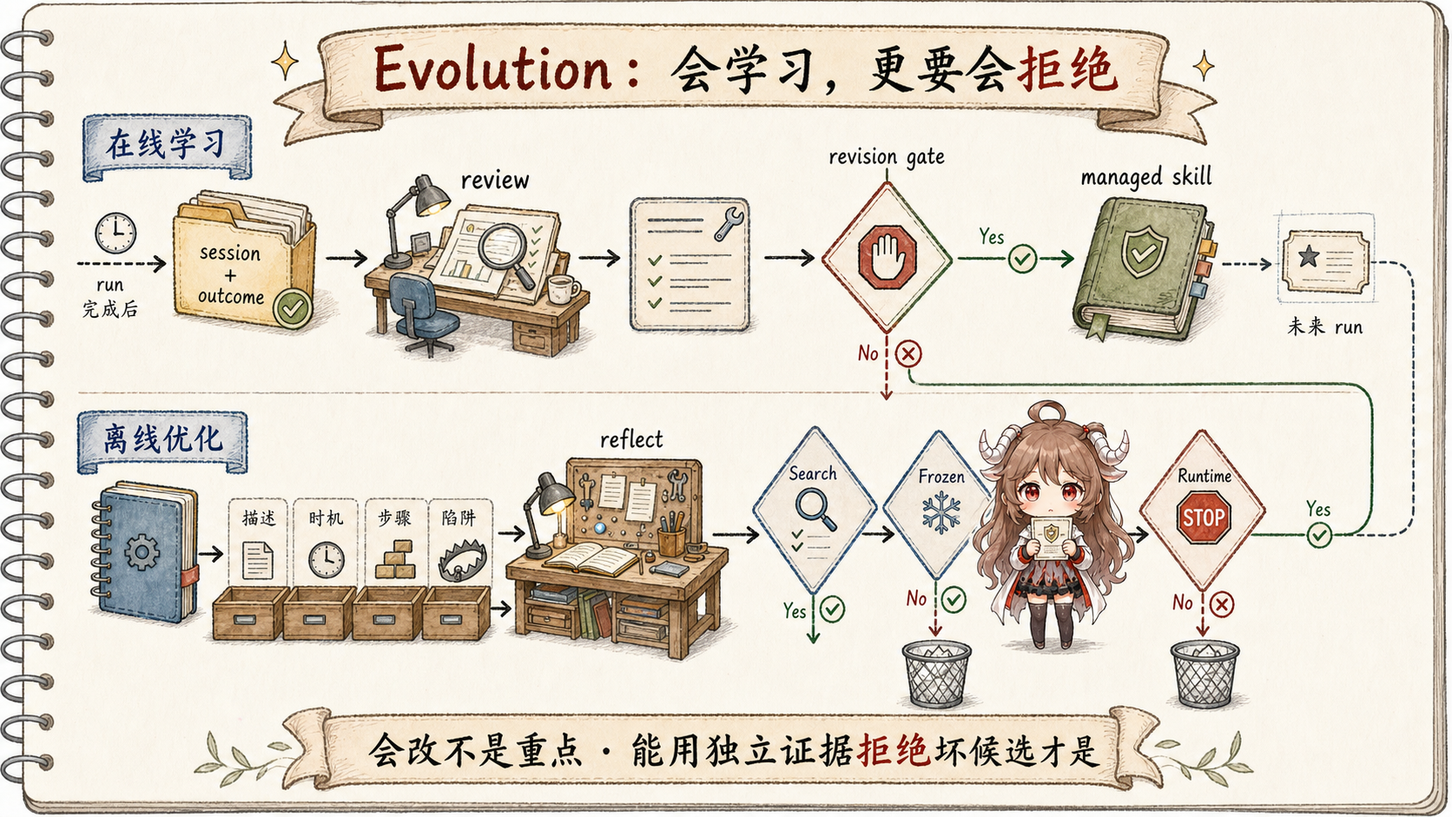
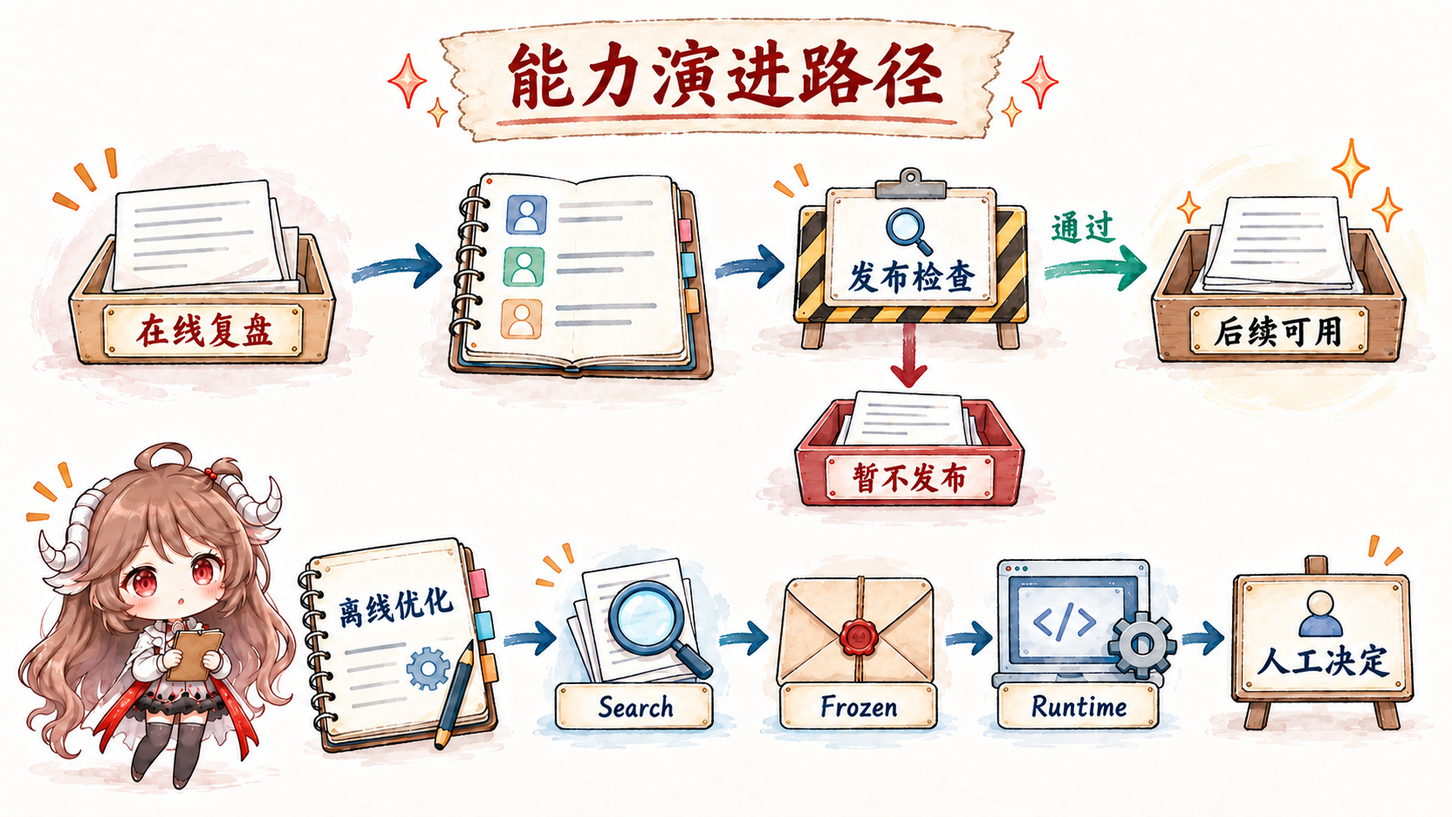
Clarify independent tRPC evolution and evaluation routes

diff --git a/agent-framework/en/trpc-agent-go-evolution/index.html b/agent-framework/en/trpc-agent-go-evolution/index.html
@@ -65,12 +65,12 @@
               Skill candidate, and passes it through configured checks before publication. A GEPA-inspired offline Optimizer asks the stricter question: does that candidate remain better on independent data?
             </p>
             <div class="meta-line"><span>Topic: Skill Evolution</span><span>Online: Session → Review → Revision</span><span>Offline: Reflect → Validate → Holdout</span><span>Dataset: SkillCraft</span><span>Rule: candidates must be rejectable</span></div>
-            <figure class="hero-image"><img src="../assets/trpc-agent-go-evolution-evidence.png" alt="Hand-drawn tRPC-Agent-Go Evolution map: online learning reviews session plus outcome after a run and sends a revision through a gate into a managed skill; offline optimization reflects one component at a time, passes Search, Frozen, and Runtime gates, then rejoins the same revision gate." /></figure>
+            <figure class="hero-image"><img src="../assets/trpc-agent-go-evolution-evidence.png" alt="Online review produces candidates that become available to future runs after release checks; unpublished candidates stop separately. Offline optimization follows Search, Frozen, and Runtime evidence stages before a human adoption decision." /><figcaption>The routes start independently. Release checks summarize review, persistence, and publication. Offline stages produce evaluation evidence, not automatic deployment; any stage may reject a candidate, with rejection branches omitted here.</figcaption></figure>
           </section>
 
           <section class="article-body">
             <div class="note key-point"><p><strong>Separate three kinds of state first.</strong> Summary changes what the Model sees in the current Session. Memory preserves cross-Session facts and episodes. Evolution changes reusable Skills: how future tasks of this kind should be done.</p></div>
-            <div class="note"><p><strong>Source scope.</strong> Online Evolution, the GEPA-inspired Optimizer, and both SkillCraft Benchmarks are merged into public main. Framework links are pinned to <code>99a8667aa8ad3e4816cb3d7f1321ef35118162d7</code>, which merged <a href="https://github.com/trpc-group/trpc-agent-go/pull/2204">PR #2204</a>; Benchmark links are pinned to <code>ea939a734e777a53c59c47960391c92388dfaf1e</code>, which merged <a href="https://github.com/trpc-group/trpc-agent-go-benchmark/pull/18">PR #18</a>. Numbers describe the frozen datasets; they do not mean a Skill passed approval and became active in production.</p></div>
+            <div class="note"><p><strong>Source scope.</strong> Online Evolution, the GEPA-inspired Optimizer, and both SkillCraft Benchmarks are merged into public main. Framework links are verified at <code>e76458566eece2ca33c3da28fadd1691929fb46a</code>; GEPA was originally merged in <a href="https://github.com/trpc-group/trpc-agent-go/pull/2204">PR #2204</a>. Benchmark links are pinned to <code>ea939a734e777a53c59c47960391c92388dfaf1e</code>, which merged <a href="https://github.com/trpc-group/trpc-agent-go-benchmark/pull/18">PR #18</a>. Numbers describe the frozen datasets; they do not mean a Skill passed approval and became active in production.</p></div>
             <div class="note"><p><strong>Questions this article answers.</strong> Follow one multi-recipe Skill Revision: which Run triggers Review, what the Reviewer sees, why a candidate may produce no write, which strings and fields SpecGate and SafetyGate inspect, which record selects the Active version, and where online Evolution and offline GEPA optimize and reject candidates.</p></div>
 
             <h2>1. Translate “self-evolution” into a checkable question</h2>
@@ -85,7 +85,7 @@
             </tbody></table></div>
             <p>
               This division comes from the source, not the article. <code>ReviewDecision</code> explicitly excludes Durable Facts and delegates them to
-              <code>memory.Service</code>; Evolution only changes the Skill Library. See the <a href="https://github.com/trpc-group/trpc-agent-go/blob/99a8667aa8ad3e4816cb3d7f1321ef35118162d7/evolution/types.go#L176-L181"><code>ReviewDecision</code> field documentation</a>.
+              <code>memory.Service</code>; Evolution only changes the Skill Library. See the <a href="https://github.com/trpc-group/trpc-agent-go/blob/e76458566eece2ca33c3da28fadd1691929fb46a/evolution/types.go#L176-L181"><code>ReviewDecision</code> field documentation</a>.
               Rememorio introduced the asynchronous Skill extraction path in the <a href="https://github.com/trpc-group/trpc-agent-go/commit/c6c3bb29ab6050facf98e6b82c3cc16aaddd14df">commit corresponding to #1651</a>.
             </p>
 
@@ -94,7 +94,7 @@
             <p>
               The foreground Agent still optimizes for the user's task. Only after completion does Runner enqueue Session, an optional evaluator Outcome,
               and Skill scope. <code>NewService</code> constructs the reviewer, publisher, worker, and optional gate components, then starts background workers.
-              See <a href="https://github.com/trpc-group/trpc-agent-go/blob/99a8667aa8ad3e4816cb3d7f1321ef35118162d7/evolution/service.go#L23-L78"><code>NewService</code> and <code>EnqueueLearningJob</code></a>.
+              See <a href="https://github.com/trpc-group/trpc-agent-go/blob/e76458566eece2ca33c3da28fadd1691929fb46a/evolution/service.go#L23-L78"><code>NewService</code> and <code>EnqueueLearningJob</code></a>.
             </p>
             <p>
               Runner's default completion hook normally supplies Session with a nil <code>Outcome</code>. A benchmark harness or application evaluator must
@@ -130,8 +130,8 @@ background evolution
             <p>
               The worker scans the delta after the last review point, checks <code>ReviewPolicy</code>, and loads names, descriptions, and bounded body excerpts
               from existing Skills. The reviewer receives messages, tool transcript, current library, and optional Outcome. Outcome tells it whether the task
-              passed, failed, or partially succeeded rather than asking it to infer success from tool calls. The path is <a href="https://github.com/trpc-group/trpc-agent-go/blob/99a8667aa8ad3e4816cb3d7f1321ef35118162d7/evolution/worker.go#L325-L425"><code>processJob</code></a>;
-              the contract is <a href="https://github.com/trpc-group/trpc-agent-go/blob/99a8667aa8ad3e4816cb3d7f1321ef35118162d7/evolution/types.go#L116-L155"><code>Outcome</code> and <code>ReviewInput</code></a>.
+              passed, failed, or partially succeeded rather than asking it to infer success from tool calls. The path is <a href="https://github.com/trpc-group/trpc-agent-go/blob/e76458566eece2ca33c3da28fadd1691929fb46a/evolution/worker.go#L325-L425"><code>processJob</code></a>;
+              the contract is <a href="https://github.com/trpc-group/trpc-agent-go/blob/e76458566eece2ca33c3da28fadd1691929fb46a/evolution/types.go#L116-L155"><code>Outcome</code> and <code>ReviewInput</code></a>.
             </p>
             <p>A library-aware reconciler follows the LLM decision. A proposed count-specific duplicate may become an update or be deduplicated. Reconcile answers what the model meant to change; gates answer whether the candidate may ship.</p>
 
@@ -207,7 +207,7 @@ writeLastReviewAt(sess, latestTs)</code></pre>
               <code>ActivePointer</code> records which governed revision corresponds to the published version. Statuses include active, rejected, pending_eval,
               and pending_approval. An Agent does not read Skill content from that pointer: publisher writes the managed directory, and repository refresh
               makes the body model-visible. See the
-              <a href="https://github.com/trpc-group/trpc-agent-go/blob/99a8667aa8ad3e4816cb3d7f1321ef35118162d7/evolution/revision.go#L26-L130">revision lifecycle</a>.
+              <a href="https://github.com/trpc-group/trpc-agent-go/blob/e76458566eece2ca33c3da28fadd1691929fb46a/evolution/revision.go#L26-L130">revision lifecycle</a>.
             </p>
             <div class="table-wrap"><table><thead><tr><th>Gate</th><th>What it blocks</th><th>What it cannot prove</th></tr></thead><tbody>
               <tr><td>SpecGate</td><td>Missing description, use condition, steps, duplicates, over-specific variants.</td><td>Actual task quality improved.</td></tr>
@@ -217,7 +217,7 @@ writeLastReviewAt(sess, latestTs)</code></pre>
             </tbody></table></div>
             <p>
               Direct publish remains available when no gate plumbing is configured. As soon as any gate component exists, <code>applyDecision</code> routes
-              through the revision pipeline. See <a href="https://github.com/trpc-group/trpc-agent-go/blob/99a8667aa8ad3e4816cb3d7f1321ef35118162d7/evolution/worker.go#L428-L471"><code>applyDecision</code></a>.
+              through the revision pipeline. See <a href="https://github.com/trpc-group/trpc-agent-go/blob/e76458566eece2ca33c3da28fadd1691929fb46a/evolution/worker.go#L428-L471"><code>applyDecision</code></a>.
             </p>
 
             <h3>2.4 How the four Gates make their decisions</h3>
@@ -240,7 +240,7 @@ writeLastReviewAt(sess, latestTs)</code></pre>
               and a name no longer than 120 characters. For create, names are lowercased and non-alphanumeric runs collapse to <code>-</code>; a canonical match
               with an existing name must be update. A count pattern catches names such as “3 cities” or “5 dishes” when a multi-city or multi-dish parent exists.
               Delete bypasses body checks because it has no new spec. The example receives missing-use-condition, too-few-steps, and count-specific-sibling reasons.
-              See <a href="https://github.com/trpc-group/trpc-agent-go/blob/99a8667aa8ad3e4816cb3d7f1321ef35118162d7/evolution/gates.go#L194-L270"><code>defaultSpecGate.Validate</code></a> for the field and canonical-name rules.
+              See <a href="https://github.com/trpc-group/trpc-agent-go/blob/e76458566eece2ca33c3da28fadd1691929fb46a/evolution/gates.go#L194-L270"><code>defaultSpecGate.Validate</code></a> for the field and canonical-name rules.
             </p>
             <pre><code class="language-go">// evolution/gates.go (excerpt)
 if c.Action == RevisionActionDelete {
@@ -286,7 +286,7 @@ return &amp;SpecReport{Passed: len(reasons) == 0, Reasons: reasons}, nil</code><
               such as <code>../../</code>, <code>/etc/passwd</code>, and <code>.ssh/id_*</code>. The candidate is flagged for dangerous shell content.
               The list stays short because a false positive rejects a revision. This gate does not prove semantic safety and does not replace CodeExecutor
               sandboxing or tool permissions.
-              The scan entry and rule composition are in <a href="https://github.com/trpc-group/trpc-agent-go/blob/99a8667aa8ad3e4816cb3d7f1321ef35118162d7/evolution/gates.go#L272-L302"><code>defaultSafetyGate.Scan</code></a>.
+              The scan entry and rule composition are in <a href="https://github.com/trpc-group/trpc-agent-go/blob/e76458566eece2ca33c3da28fadd1691929fb46a/evolution/gates.go#L272-L302"><code>defaultSafetyGate.Scan</code></a>.
             </p>
             <pre><code class="language-go">// evolution/gates.go (excerpt)
 body := strings.Join(append([]string{
@@ -315,7 +315,7 @@ return &amp;SafetyReport{Passed: len(reasons) == 0, Reasons: reasons}, nil</code
               threshold places the revision in <code>pending_eval</code>; partial may pass, delete always passes, and missing Outcome passes by default.
               It asks whether automatic learning from a catastrophic run is credible. It does not answer whether the Skill improves independent tasks.
               Replay, shadow traffic, and mini-benchmarks require another implementation of the interface; GEPA's frozen evidence must not be attributed to this default gate.
-              See <a href="https://github.com/trpc-group/trpc-agent-go/blob/99a8667aa8ad3e4816cb3d7f1321ef35118162d7/evolution/gates.go#L107-L174"><code>outcomeBasedEffectivenessGate</code></a>.
+              See <a href="https://github.com/trpc-group/trpc-agent-go/blob/e76458566eece2ca33c3da28fadd1691929fb46a/evolution/gates.go#L107-L174"><code>outcomeBasedEffectivenessGate</code></a>.
             </p>
 
             <h4>HumanGate decides whether to hold; the worker never waits for a person</h4>
@@ -327,9 +327,9 @@ return &amp;SafetyReport{Passed: len(reasons) == 0, Reasons: reasons}, nil</code
               By default <code>ApprovalTimeout=0</code>, so the revision waits for an explicit decision. Only when a deployment configures a positive timeout
               may the sweeper auto-promote an expired <code>pending_approval</code> revision. The status means “undecided,” not “a human must eventually click approve.”
               The default and auto-promotion semantics are defined in
-              <a href="https://github.com/trpc-group/trpc-agent-go/blob/99a8667aa8ad3e4816cb3d7f1321ef35118162d7/evolution/worker.go#L176-L183"><code>workerConfig</code></a>.
-              Persistence and the final decision are implemented by <a href="https://github.com/trpc-group/trpc-agent-go/blob/99a8667aa8ad3e4816cb3d7f1321ef35118162d7/evolution/worker.go#L903-L922"><code>runHumanGate</code></a>
-              and <a href="https://github.com/trpc-group/trpc-agent-go/blob/99a8667aa8ad3e4816cb3d7f1321ef35118162d7/evolution/approval_service.go#L153-L212"><code>ApprovalService.Decide</code></a>.
+              <a href="https://github.com/trpc-group/trpc-agent-go/blob/e76458566eece2ca33c3da28fadd1691929fb46a/evolution/worker.go#L176-L183"><code>workerConfig</code></a>.
+              Persistence and the final decision are implemented by <a href="https://github.com/trpc-group/trpc-agent-go/blob/e76458566eece2ca33c3da28fadd1691929fb46a/evolution/worker.go#L903-L922"><code>runHumanGate</code></a>
+              and <a href="https://github.com/trpc-group/trpc-agent-go/blob/e76458566eece2ca33c3da28fadd1691929fb46a/evolution/approval_service.go#L153-L212"><code>ApprovalService.Decide</code></a>.
             </p>
 
             <h3>2.5 Gate order, persistence, and Agent visibility</h3>
@@ -399,8 +399,8 @@ application refreshes repository -> future Agent can load the new Skill</code></
               Shadow is easy to misread as “observe without activation.” Here it means the opposite. <code>WithApprovalGateShadow(true)</code> lets teams observe
               what gates would reject while preserving the old direct-publish behavior, so a failed candidate may still enter the managed library. Failed status
               and the <code>shadow_mode_bypassed</code> metric answer “what would enforcement have changed?” Once production relies on gates, shadow should be off;
-              otherwise reports are warnings, not isolation. See <a href="https://github.com/trpc-group/trpc-agent-go/blob/99a8667aa8ad3e4816cb3d7f1321ef35118162d7/evolution/worker.go#L750-L789"><code>processRevision</code></a>
-              and <a href="https://github.com/trpc-group/trpc-agent-go/blob/99a8667aa8ad3e4816cb3d7f1321ef35118162d7/evolution/worker.go#L935-L1010"><code>publishRevision</code></a>.
+              otherwise reports are warnings, not isolation. See <a href="https://github.com/trpc-group/trpc-agent-go/blob/e76458566eece2ca33c3da28fadd1691929fb46a/evolution/worker.go#L750-L789"><code>processRevision</code></a>
+              and <a href="https://github.com/trpc-group/trpc-agent-go/blob/e76458566eece2ca33c3da28fadd1691929fb46a/evolution/worker.go#L935-L1010"><code>publishRevision</code></a>.
             </p>
             <pre><code class="language-go">// evolution/worker.go (excerpt)
 gatePassed := w.runGates(ctx, rev, existing, outcome)
@@ -552,7 +552,7 @@ func (o *gepaOptimizer) Optimize(
               Only <code>Submit=true</code> plus an injected <code>RevisionSubmitter</code> sends a promotion-eligible candidate into the same revision governance.
               The merged implementation stores externally evaluated submissions as <code>pending_approval</code>. They wait for a person by default and may
               auto-promote only under an explicit timeout policy. Either way, this preserves the boundary between “the experiment improved” and
-              “the runtime may activate it.” See the <a href="https://github.com/trpc-group/trpc-agent-go/blob/99a8667aa8ad3e4816cb3d7f1321ef35118162d7/evolution/optimization/optimization.go">optimizer contracts</a>.
+              “the runtime may activate it.” See the <a href="https://github.com/trpc-group/trpc-agent-go/blob/e76458566eece2ca33c3da28fadd1691929fb46a/evolution/optimization/optimization.go">optimizer contracts</a>.
             </p>
             <p>
               The public shape contains no Session, Event channel, or background queue: only an explicit seed, frozen Dataset, scope, parent revision, and submit
@@ -655,9 +655,9 @@ return w.holdSubmittedRevision(ctx, rev, store) // pending_approval</code></pre>
               <code>Submit=true</code> creates no revision. After holdout passes, the submitter still validates target identity, parent revision, and automatic
               gates, then persists only a <code>pending_approval</code> revision. By default a separate <code>ApprovalService.Decide</code> advances it;
               with an explicit approval timeout, the sweeper may instead reach publisher.
-              See the <a href="https://github.com/trpc-group/trpc-agent-go/blob/99a8667aa8ad3e4816cb3d7f1321ef35118162d7/evolution/optimization/engine.go#L127-L139"><code>Optimize</code> submission branch</a>,
-              <a href="https://github.com/trpc-group/trpc-agent-go/blob/99a8667aa8ad3e4816cb3d7f1321ef35118162d7/evolution/optimization/engine.go#L341-L419">promotion and submission</a>,
-              and <a href="https://github.com/trpc-group/trpc-agent-go/blob/99a8667aa8ad3e4816cb3d7f1321ef35118162d7/evolution/submission.go#L68-L95"><code>submitRevision</code></a>.
+              See the <a href="https://github.com/trpc-group/trpc-agent-go/blob/e76458566eece2ca33c3da28fadd1691929fb46a/evolution/optimization/engine.go#L127-L139"><code>Optimize</code> submission branch</a>,
+              <a href="https://github.com/trpc-group/trpc-agent-go/blob/e76458566eece2ca33c3da28fadd1691929fb46a/evolution/optimization/engine.go#L341-L419">promotion and submission</a>,
+              and <a href="https://github.com/trpc-group/trpc-agent-go/blob/e76458566eece2ca33c3da28fadd1691929fb46a/evolution/submission.go#L68-L95"><code>submitRevision</code></a>.
             </p>
 
             <h2>6. The GEPA Benchmark uses Search, Frozen confirmation, and Runtime replay</h2>
@@ -728,11 +728,11 @@ return w.holdSubmittedRevision(ctx, rev, store) // pending_approval</code></pre>
 
             <h2 id="sources">Sources, paper, and experiments</h2>
             <ul>
-              <li><a href="https://github.com/trpc-group/trpc-agent-go/tree/99a8667aa8ad3e4816cb3d7f1321ef35118162d7">tRPC-Agent-Go public source snapshot</a></li>
-              <li><a href="https://github.com/trpc-group/trpc-agent-go/blob/99a8667aa8ad3e4816cb3d7f1321ef35118162d7/evolution/service.go">Evolution service</a></li>
-              <li><a href="https://github.com/trpc-group/trpc-agent-go/blob/99a8667aa8ad3e4816cb3d7f1321ef35118162d7/evolution/worker.go">Asynchronous review worker</a></li>
-              <li><a href="https://github.com/trpc-group/trpc-agent-go/blob/99a8667aa8ad3e4816cb3d7f1321ef35118162d7/evolution/revision.go">Revision store and lifecycle</a></li>
-              <li><a href="https://github.com/trpc-group/trpc-agent-go/blob/99a8667aa8ad3e4816cb3d7f1321ef35118162d7/evolution/gates.go">Spec, Safety, Effectiveness, and Human gates</a></li>
+              <li><a href="https://github.com/trpc-group/trpc-agent-go/tree/e76458566eece2ca33c3da28fadd1691929fb46a">tRPC-Agent-Go public source snapshot</a></li>
+              <li><a href="https://github.com/trpc-group/trpc-agent-go/blob/e76458566eece2ca33c3da28fadd1691929fb46a/evolution/service.go">Evolution service</a></li>
+              <li><a href="https://github.com/trpc-group/trpc-agent-go/blob/e76458566eece2ca33c3da28fadd1691929fb46a/evolution/worker.go">Asynchronous review worker</a></li>
+              <li><a href="https://github.com/trpc-group/trpc-agent-go/blob/e76458566eece2ca33c3da28fadd1691929fb46a/evolution/revision.go">Revision store and lifecycle</a></li>
+              <li><a href="https://github.com/trpc-group/trpc-agent-go/blob/e76458566eece2ca33c3da28fadd1691929fb46a/evolution/gates.go">Spec, Safety, Effectiveness, and Human gates</a></li>
               <li><a href="https://github.com/trpc-group/trpc-agent-go-benchmark/blob/ea939a734e777a53c59c47960391c92388dfaf1e/skillcraft/results/REPORT.md">Merged SkillCraft online Evolution report</a></li>
               <li><a href="https://github.com/trpc-group/trpc-agent-go-benchmark/blob/ea939a734e777a53c59c47960391c92388dfaf1e/skillcraft/results/gepa_reflective_optimization/REPORT.md">Merged GEPA reflective optimization report</a></li>
               <li><a href="https://arxiv.org/abs/2507.19457v2">GEPA paper (arXiv:2507.19457v2)</a></li>

diff --git a/agent-framework/zh/trpc-agent-go-evolution/index.html b/agent-framework/zh/trpc-agent-go-evolution/index.html
@@ -65,12 +65,12 @@
               生成带版本的 Skill 候选，再经过规则、评估或人工检查后发布；GEPA 式离线优化则进一步追问：这个候选在独立数据上真的更好吗？
             </p>
             <div class="meta-line"><span>主题：Skill Evolution</span><span>在线：Session → Review → Revision</span><span>离线：Reflect → Validate → Holdout</span><span>数据集：SkillCraft</span><span>结论：候选必须允许被拒绝</span></div>
-            <figure class="hero-image"><img src="../assets/trpc-agent-go-evolution-evidence.png" alt="tRPC-Agent-Go Evolution 手绘图：在线学习在 Run 完成后检查 Session 和 Outcome，候选经过 Revision Gate 后才成为 Managed Skill；离线优化逐项反思候选，再经过 Search、Frozen、Runtime 三轮验证，存活候选仍回到同一套发布检查。" /></figure>
+            <figure class="hero-image"><img src="../assets/trpc-agent-go-evolution-evidence.png" alt="在线复盘生成候选，通过发布检查后供后续运行使用，未通过则暂不发布；离线优化独立经过 Search、Frozen 与 Runtime 证据阶段，最后由人决定是否采用。" /><figcaption>两条路线分别启动。上方将审核、持久化和发布概括为发布检查；下方三个阶段只产生评估证据，不自动发布。任一离线阶段都可以淘汰候选，图中省略各阶段的拒绝分支。</figcaption></figure>
           </section>
 
           <section class="article-body">
             <div class="note key-point"><p><strong>先分清三类状态。</strong>Summary 改当前会话给模型看的内容，Memory 保存跨会话事实与事件，Evolution 只维护可复用 Skill。它学习的是“以后遇到这类任务怎样做”，不是“这个用户是谁”。</p></div>
-            <div class="note"><p><strong>本文依据。</strong>在线 Evolution、GEPA 式 Optimizer 与两组 SkillCraft Benchmark 都已进入公开 main。框架源码固定到合入 <a href="https://github.com/trpc-group/trpc-agent-go/pull/2204">PR #2204</a> 的 <code>99a8667aa8ad3e4816cb3d7f1321ef35118162d7</code>；Benchmark 固定到合入 <a href="https://github.com/trpc-group/trpc-agent-go-benchmark/pull/18">PR #18</a> 的 <code>ea939a734e777a53c59c47960391c92388dfaf1e</code>。实验数字只说明冻结数据集上的表现，不代表某个 Skill 已经通过审批并在生产环境生效。</p></div>
+            <div class="note"><p><strong>本文依据。</strong>在线 Evolution、GEPA 式 Optimizer 与两组 SkillCraft Benchmark 都已进入公开 main。框架实现核实到公开快照；GEPA 最初由 <a href="https://github.com/trpc-group/trpc-agent-go/pull/2204">PR #2204</a> 合入，当前引用固定到 <code>e76458566eece2ca33c3da28fadd1691929fb46a</code>；Benchmark 固定到合入 <a href="https://github.com/trpc-group/trpc-agent-go-benchmark/pull/18">PR #18</a> 的 <code>ea939a734e777a53c59c47960391c92388dfaf1e</code>。实验数字只说明冻结数据集上的表现，不代表某个 Skill 已经通过审批并在生产环境生效。</p></div>
             <div class="note"><p><strong>读完后你应该能回答。</strong>请跟着一份“多菜谱采集” Skill Revision 前进：哪一次 Run 触发 Review，Reviewer 看见什么，候选为什么可能什么也不写，SpecGate 与 SafetyGate 检查哪些字符串和结构，哪个文件决定 Active 版本，以及在线 Evolution 与离线 GEPA 分别在哪里优化、根据什么结果拒绝候选。</p></div>
 
             <h2>一、先把“自进化”翻译成一个可检查的问题</h2>
@@ -85,7 +85,7 @@
             </tbody></table></div>
             <p>
               这不是文章自行划分的概念。<code>ReviewDecision</code> 的注释明确排除 Durable Facts，并把它们交给 <code>memory.Service</code>；
-              Evolution 只修改 Skill Library。见 <a href="https://github.com/trpc-group/trpc-agent-go/blob/99a8667aa8ad3e4816cb3d7f1321ef35118162d7/evolution/types.go#L176-L181"><code>ReviewDecision</code> 的字段说明</a>。
+              Evolution 只修改 Skill Library。见 <a href="https://github.com/trpc-group/trpc-agent-go/blob/e76458566eece2ca33c3da28fadd1691929fb46a/evolution/types.go#L176-L181"><code>ReviewDecision</code> 的字段说明</a>。
               Rememorio 在 <a href="https://github.com/trpc-group/trpc-agent-go/commit/c6c3bb29ab6050facf98e6b82c3cc16aaddd14df">#1651 对应提交</a>引入了这条异步 Skill 抽取主线。
             </p>
 
@@ -94,7 +94,7 @@
             <p>
               前台 Agent 仍以完成用户任务为目标。run 收尾后，Runner 才把 Session、可选 evaluator outcome 与 skill scope 放入 learning job。
               <code>NewService</code> 创建 reviewer、publisher、worker 与可选 gate 组件并启动后台 worker；见
-              <a href="https://github.com/trpc-group/trpc-agent-go/blob/99a8667aa8ad3e4816cb3d7f1321ef35118162d7/evolution/service.go#L23-L78"><code>NewService</code> 与 <code>EnqueueLearningJob</code></a>。
+              <a href="https://github.com/trpc-group/trpc-agent-go/blob/e76458566eece2ca33c3da28fadd1691929fb46a/evolution/service.go#L23-L78"><code>NewService</code> 与 <code>EnqueueLearningJob</code></a>。
             </p>
             <p>
               默认 Runner 完成钩子通常只交 Session，<code>Outcome</code> 为 nil；benchmark harness 或业务 evaluator 才会显式附上 status、score 与 notes。
@@ -133,8 +133,8 @@ background evolution
             <p>
               worker 从上次 review 点开始扫描 delta，先过 <code>ReviewPolicy</code>，再加载已有 skill 的名称、描述和受限正文片段。
               Reviewer 收到消息、工具 transcript、现有 Skill 与可选 Outcome；Outcome 能告诉它任务究竟成功、失败还是只得了部分分数，
-              避免从工具调用表面猜结果。主线在 <a href="https://github.com/trpc-group/trpc-agent-go/blob/99a8667aa8ad3e4816cb3d7f1321ef35118162d7/evolution/worker.go#L325-L425"><code>processJob</code></a>，
-              Outcome 契约见 <a href="https://github.com/trpc-group/trpc-agent-go/blob/99a8667aa8ad3e4816cb3d7f1321ef35118162d7/evolution/types.go#L116-L155"><code>Outcome</code> 与 <code>ReviewInput</code></a>。
+              避免从工具调用表面猜结果。主线在 <a href="https://github.com/trpc-group/trpc-agent-go/blob/e76458566eece2ca33c3da28fadd1691929fb46a/evolution/worker.go#L325-L425"><code>processJob</code></a>，
+              Outcome 契约见 <a href="https://github.com/trpc-group/trpc-agent-go/blob/e76458566eece2ca33c3da28fadd1691929fb46a/evolution/types.go#L116-L155"><code>Outcome</code> 与 <code>ReviewInput</code></a>。
             </p>
             <p>
               LLM decision 之后还有 library-aware reconciler：例如 reviewer 又创建一个只是名字更具体的同类 Skill，reconciler 会尝试改成 update 或去重。
@@ -211,7 +211,7 @@ writeLastReviewAt(sess, latestTs)</code></pre>
               配置了 approval pipeline 时，create、update、delete 都先变成 immutable revision。<code>CandidateStore</code> 保存候选和 audit log，
               <code>ActivePointer</code> 记录治理上哪条 revision 对应当前发布版本；状态可以是 active、rejected、pending_eval 或 pending_approval。
               Agent 并不从 pointer 读取 Skill 正文：publisher 写入 managed directory，repository refresh 后正文才进入模型视图。
-              见 <a href="https://github.com/trpc-group/trpc-agent-go/blob/99a8667aa8ad3e4816cb3d7f1321ef35118162d7/evolution/revision.go#L26-L130">revision lifecycle</a>。
+              见 <a href="https://github.com/trpc-group/trpc-agent-go/blob/e76458566eece2ca33c3da28fadd1691929fb46a/evolution/revision.go#L26-L130">revision lifecycle</a>。
             </p>
             <div class="table-wrap"><table><thead><tr><th>Gate</th><th>它阻止什么</th><th>不能证明什么</th></tr></thead><tbody>
               <tr><td>SpecGate</td><td>缺描述、缺使用时机、步骤过少、重复或过度具体的 Skill。</td><td>不能证明任务质量真的提高。</td></tr>
@@ -221,7 +221,7 @@ writeLastReviewAt(sess, latestTs)</code></pre>
             </tbody></table></div>
             <p>
               没有配置 gate 时，旧的 direct-publish 行为仍可保留；只要任一 gate 组件存在，<code>applyDecision</code> 就改走 revision pipeline。
-              分支见 <a href="https://github.com/trpc-group/trpc-agent-go/blob/99a8667aa8ad3e4816cb3d7f1321ef35118162d7/evolution/worker.go#L428-L471"><code>applyDecision</code></a>。
+              分支见 <a href="https://github.com/trpc-group/trpc-agent-go/blob/e76458566eece2ca33c3da28fadd1691929fb46a/evolution/worker.go#L428-L471"><code>applyDecision</code></a>。
             </p>
 
             <h3>2.4 四道 Gate 分别怎样作出决定</h3>
@@ -243,7 +243,7 @@ writeLastReviewAt(sess, latestTs)</code></pre>
               名称最多 120 字符。创建时，它把名称转小写并把连续非字母数字压成 <code>-</code>，若与现有名称相同就要求改为 update；
               计数正则还会识别 “3 cities / 5 dishes” 之类的名字，并在已有 multi-city / multi-dish 父 Skill 时拒绝。
               delete 不需要再验证正文，因为它本来就没有新 spec。上面的候选会同时得到“缺 when_to_use、步骤不足、计数特化”三条理由。
-              具体字段与名称规范化逻辑见 <a href="https://github.com/trpc-group/trpc-agent-go/blob/99a8667aa8ad3e4816cb3d7f1321ef35118162d7/evolution/gates.go#L194-L270"><code>defaultSpecGate.Validate</code></a>。
+              具体字段与名称规范化逻辑见 <a href="https://github.com/trpc-group/trpc-agent-go/blob/e76458566eece2ca33c3da28fadd1691929fb46a/evolution/gates.go#L194-L270"><code>defaultSpecGate.Validate</code></a>。
             </p>
             <pre><code class="language-go">// evolution/gates.go（节选）
 if c.Action == RevisionActionDelete {
@@ -289,7 +289,7 @@ return &amp;SpecReport{Passed: len(reasons) == 0, Reasons: reasons}, nil</code><
               以及 <code>../../</code>、<code>/etc/passwd</code>、<code>.ssh/id_*</code> 等路径穿越或敏感路径。
               上面的候选因此被明确标成 dangerous shell。规则短不是能力不足的疏忽，而是 false positive 会直接拒绝 revision；
               这层只挡高置信字符串，不能证明工具执行语义完全安全，也不能替代 CodeExecutor 沙箱与权限控制。
-              扫描入口与规则组合见 <a href="https://github.com/trpc-group/trpc-agent-go/blob/99a8667aa8ad3e4816cb3d7f1321ef35118162d7/evolution/gates.go#L272-L302"><code>defaultSafetyGate.Scan</code></a>。
+              扫描入口与规则组合见 <a href="https://github.com/trpc-group/trpc-agent-go/blob/e76458566eece2ca33c3da28fadd1691929fb46a/evolution/gates.go#L272-L302"><code>defaultSafetyGate.Scan</code></a>。
             </p>
             <pre><code class="language-go">// evolution/gates.go（节选）
 body := strings.Join(append([]string{
@@ -318,7 +318,7 @@ return &amp;SafetyReport{Passed: len(reasons) == 0, Reasons: reasons}, nil</code
               revision 进入 <code>pending_eval</code>；partial 允许通过，delete 总是通过，没有 Outcome 时也默认通过。
               它回答“是否应从一次灾难性 run 自动学习”，不回答“这个 Skill 在独立任务上是否更好”。真正的 replay、shadow traffic
               或 mini-benchmark 需要实现同一个接口，GEPA 的 frozen/runtime 证据也不能冒充这道默认 gate 已经做过的事。
-              默认判定见 <a href="https://github.com/trpc-group/trpc-agent-go/blob/99a8667aa8ad3e4816cb3d7f1321ef35118162d7/evolution/gates.go#L107-L174"><code>outcomeBasedEffectivenessGate</code></a>。
+              默认判定见 <a href="https://github.com/trpc-group/trpc-agent-go/blob/e76458566eece2ca33c3da28fadd1691929fb46a/evolution/gates.go#L107-L174"><code>outcomeBasedEffectivenessGate</code></a>。
             </p>
 
             <h4>HumanGate：只决定是否暂缓，不在 worker 里等待人</h4>
@@ -330,9 +330,9 @@ return &amp;SafetyReport{Passed: len(reasons) == 0, Reasons: reasons}, nil</code
               revision 会一直等待显式决定；只有部署主动配置正数 timeout，sweeper 才会把超时的 <code>pending_approval</code>
               自动 promote。状态名表示“尚未决定”，不证明一定会有人点击批准。
               timeout 默认值与自动晋升语义见
-              <a href="https://github.com/trpc-group/trpc-agent-go/blob/99a8667aa8ad3e4816cb3d7f1321ef35118162d7/evolution/worker.go#L176-L183"><code>workerConfig</code></a>；
-              状态落盘与最终决定分别见 <a href="https://github.com/trpc-group/trpc-agent-go/blob/99a8667aa8ad3e4816cb3d7f1321ef35118162d7/evolution/worker.go#L903-L922"><code>runHumanGate</code></a>
-              和 <a href="https://github.com/trpc-group/trpc-agent-go/blob/99a8667aa8ad3e4816cb3d7f1321ef35118162d7/evolution/approval_service.go#L153-L212"><code>ApprovalService.Decide</code></a>。
+              <a href="https://github.com/trpc-group/trpc-agent-go/blob/e76458566eece2ca33c3da28fadd1691929fb46a/evolution/worker.go#L176-L183"><code>workerConfig</code></a>；
+              状态落盘与最终决定分别见 <a href="https://github.com/trpc-group/trpc-agent-go/blob/e76458566eece2ca33c3da28fadd1691929fb46a/evolution/worker.go#L903-L922"><code>runHumanGate</code></a>
+              和 <a href="https://github.com/trpc-group/trpc-agent-go/blob/e76458566eece2ca33c3da28fadd1691929fb46a/evolution/approval_service.go#L153-L212"><code>ApprovalService.Decide</code></a>。
             </p>
 
             <h3>2.5 Gate 顺序、持久化与 Agent 可见性</h3>
@@ -403,8 +403,8 @@ application refreshes repository -> future Agent can load the new Skill</code></
               会拦住什么，同时保持旧 direct-publish 行为，所以失败候选仍可能真实写入 managed library。它留下失败状态与
               <code>shadow_mode_bypassed</code> 指标，方便比较“如果强制 gate 会发生什么”；生产开始依赖 gate 后应关闭 shadow，
               否则 report 只是告警，不是隔离。实现顺序见
-              <a href="https://github.com/trpc-group/trpc-agent-go/blob/99a8667aa8ad3e4816cb3d7f1321ef35118162d7/evolution/worker.go#L750-L789"><code>processRevision</code></a>
-              与 <a href="https://github.com/trpc-group/trpc-agent-go/blob/99a8667aa8ad3e4816cb3d7f1321ef35118162d7/evolution/worker.go#L935-L1010"><code>publishRevision</code></a>。
+              <a href="https://github.com/trpc-group/trpc-agent-go/blob/e76458566eece2ca33c3da28fadd1691929fb46a/evolution/worker.go#L750-L789"><code>processRevision</code></a>
+              与 <a href="https://github.com/trpc-group/trpc-agent-go/blob/e76458566eece2ca33c3da28fadd1691929fb46a/evolution/worker.go#L935-L1010"><code>publishRevision</code></a>。
             </p>
             <pre><code class="language-go">// evolution/worker.go（节选）
 gatePassed := w.runGates(ctx, rev, existing, outcome)
@@ -560,7 +560,7 @@ func (o *gepaOptimizer) Optimize(
               promotion-eligible 候选才进入同一 revision governance。当前实现会把这种外部评估候选写成
               <code>pending_approval</code>，默认等待人工，显式配置 timeout 时则可自动 promote；无论采用哪种策略，
               都把“实验认为更好”和“运行环境允许生效”继续分开。接口与控制流见
-              <a href="https://github.com/trpc-group/trpc-agent-go/blob/99a8667aa8ad3e4816cb3d7f1321ef35118162d7/evolution/optimization/optimization.go">optimizer contracts</a>。
+              <a href="https://github.com/trpc-group/trpc-agent-go/blob/e76458566eece2ca33c3da28fadd1691929fb46a/evolution/optimization/optimization.go">optimizer contracts</a>。
             </p>
             <p>
               这个公开接口里没有 Session、Event channel 或后台 queue，只有调用方明确传入的 seed、冻结 Dataset 与提交开关；
@@ -665,9 +665,9 @@ return w.holdSubmittedRevision(ctx, rev, store) // pending_approval</code></pre>
               <code>Submit=true</code> 也不会创建 revision；满足 holdout 条件后，submitter 仍重新校验 target、parent revision 和自动 gate，
               最终只写一条 <code>pending_approval</code> revision。默认要由另一次 <code>ApprovalService.Decide</code> 推进；
               显式配置 approval timeout 时，也可能由 sweeper 自动进入 publisher。
-              对应源码在 <a href="https://github.com/trpc-group/trpc-agent-go/blob/99a8667aa8ad3e4816cb3d7f1321ef35118162d7/evolution/optimization/engine.go#L127-L139"><code>Optimize</code> submission branch</a>、
-              <a href="https://github.com/trpc-group/trpc-agent-go/blob/99a8667aa8ad3e4816cb3d7f1321ef35118162d7/evolution/optimization/engine.go#L341-L419">promotion 与 submit</a>
-              和 <a href="https://github.com/trpc-group/trpc-agent-go/blob/99a8667aa8ad3e4816cb3d7f1321ef35118162d7/evolution/submission.go#L68-L95"><code>submitRevision</code></a>。
+              对应源码在 <a href="https://github.com/trpc-group/trpc-agent-go/blob/e76458566eece2ca33c3da28fadd1691929fb46a/evolution/optimization/engine.go#L127-L139"><code>Optimize</code> submission branch</a>、
+              <a href="https://github.com/trpc-group/trpc-agent-go/blob/e76458566eece2ca33c3da28fadd1691929fb46a/evolution/optimization/engine.go#L341-L419">promotion 与 submit</a>
+              和 <a href="https://github.com/trpc-group/trpc-agent-go/blob/e76458566eece2ca33c3da28fadd1691929fb46a/evolution/submission.go#L68-L95"><code>submitRevision</code></a>。
             </p>
 
             <h2>六、GEPA Benchmark：发现、冻结确认、运行回放分三关</h2>
@@ -741,11 +741,11 @@ return w.holdSubmittedRevision(ctx, rev, store) // pending_approval</code></pre>
 
             <h2 id="sources">参考源码、论文与实验</h2>
             <ul>
-              <li><a href="https://github.com/trpc-group/trpc-agent-go/tree/99a8667aa8ad3e4816cb3d7f1321ef35118162d7">tRPC-Agent-Go 公开源码快照</a></li>
-              <li><a href="https://github.com/trpc-group/trpc-agent-go/blob/99a8667aa8ad3e4816cb3d7f1321ef35118162d7/evolution/service.go">Evolution service</a></li>
-              <li><a href="https://github.com/trpc-group/trpc-agent-go/blob/99a8667aa8ad3e4816cb3d7f1321ef35118162d7/evolution/worker.go">Async review worker</a></li>
-              <li><a href="https://github.com/trpc-group/trpc-agent-go/blob/99a8667aa8ad3e4816cb3d7f1321ef35118162d7/evolution/revision.go">Revision store 与 lifecycle</a></li>
-              <li><a href="https://github.com/trpc-group/trpc-agent-go/blob/99a8667aa8ad3e4816cb3d7f1321ef35118162d7/evolution/gates.go">Spec / Safety / Effectiveness / Human gates</a></li>
+              <li><a href="https://github.com/trpc-group/trpc-agent-go/tree/e76458566eece2ca33c3da28fadd1691929fb46a">tRPC-Agent-Go 公开源码快照</a></li>
+              <li><a href="https://github.com/trpc-group/trpc-agent-go/blob/e76458566eece2ca33c3da28fadd1691929fb46a/evolution/service.go">Evolution service</a></li>
+              <li><a href="https://github.com/trpc-group/trpc-agent-go/blob/e76458566eece2ca33c3da28fadd1691929fb46a/evolution/worker.go">Async review worker</a></li>
+              <li><a href="https://github.com/trpc-group/trpc-agent-go/blob/e76458566eece2ca33c3da28fadd1691929fb46a/evolution/revision.go">Revision store 与 lifecycle</a></li>
+              <li><a href="https://github.com/trpc-group/trpc-agent-go/blob/e76458566eece2ca33c3da28fadd1691929fb46a/evolution/gates.go">Spec / Safety / Effectiveness / Human gates</a></li>
               <li><a href="https://github.com/trpc-group/trpc-agent-go-benchmark/blob/ea939a734e777a53c59c47960391c92388dfaf1e/skillcraft/results/REPORT.md">已合入 SkillCraft online Evolution report</a></li>
               <li><a href="https://github.com/trpc-group/trpc-agent-go-benchmark/blob/ea939a734e777a53c59c47960391c92388dfaf1e/skillcraft/results/gepa_reflective_optimization/REPORT.zh_CN.md">已合入 GEPA reflective optimization report</a></li>
               <li><a href="https://arxiv.org/abs/2507.19457v2">GEPA paper (arXiv:2507.19457v2)</a></li>

diff --git a/agent-framework/en/index.html b/agent-framework/en/index.html
@@ -461,7 +461,7 @@
         </a>
         <a class="post-card" href="./trpc-agent-go-evolution/">
           <span class="post-thumb" aria-hidden="true">
-            <img src="assets/trpc-agent-go-evolution-evidence.png" alt="tRPC-Agent-Go Evolution evidence route showing online review and offline candidates passing Search, Frozen, Runtime, and revision gates" />
+            <img src="assets/trpc-agent-go-evolution-evidence.png" alt="Online review produces candidates that become available to future runs after release checks; unpublished candidates stop separately. Offline optimization follows Search, Frozen, and Runtime evidence stages before a human adoption decision." />
           </span>
           <span>
             <span class="tag">Source Notes · Part 13</span>

diff --git a/agent-framework/zh/index.html b/agent-framework/zh/index.html
@@ -460,7 +460,7 @@
         </a>
         <a class="post-card" href="./trpc-agent-go-evolution/">
           <span class="post-thumb" aria-hidden="true">
-            <img src="assets/trpc-agent-go-evolution-evidence.png" alt="tRPC-Agent-Go Evolution 手绘证据链：在线复盘和离线候选经过 Search、Frozen、Runtime 与 revision gate" />
+            <img src="assets/trpc-agent-go-evolution-evidence.png" alt="在线复盘生成候选，通过发布检查后供后续运行使用，未通过则暂不发布；离线优化独立经过 Search、Frozen 与 Runtime 证据阶段，最后由人决定是否采用。" />
           </span>
           <span>
             <span class="tag">源码阅读 · 第十三篇</span>
